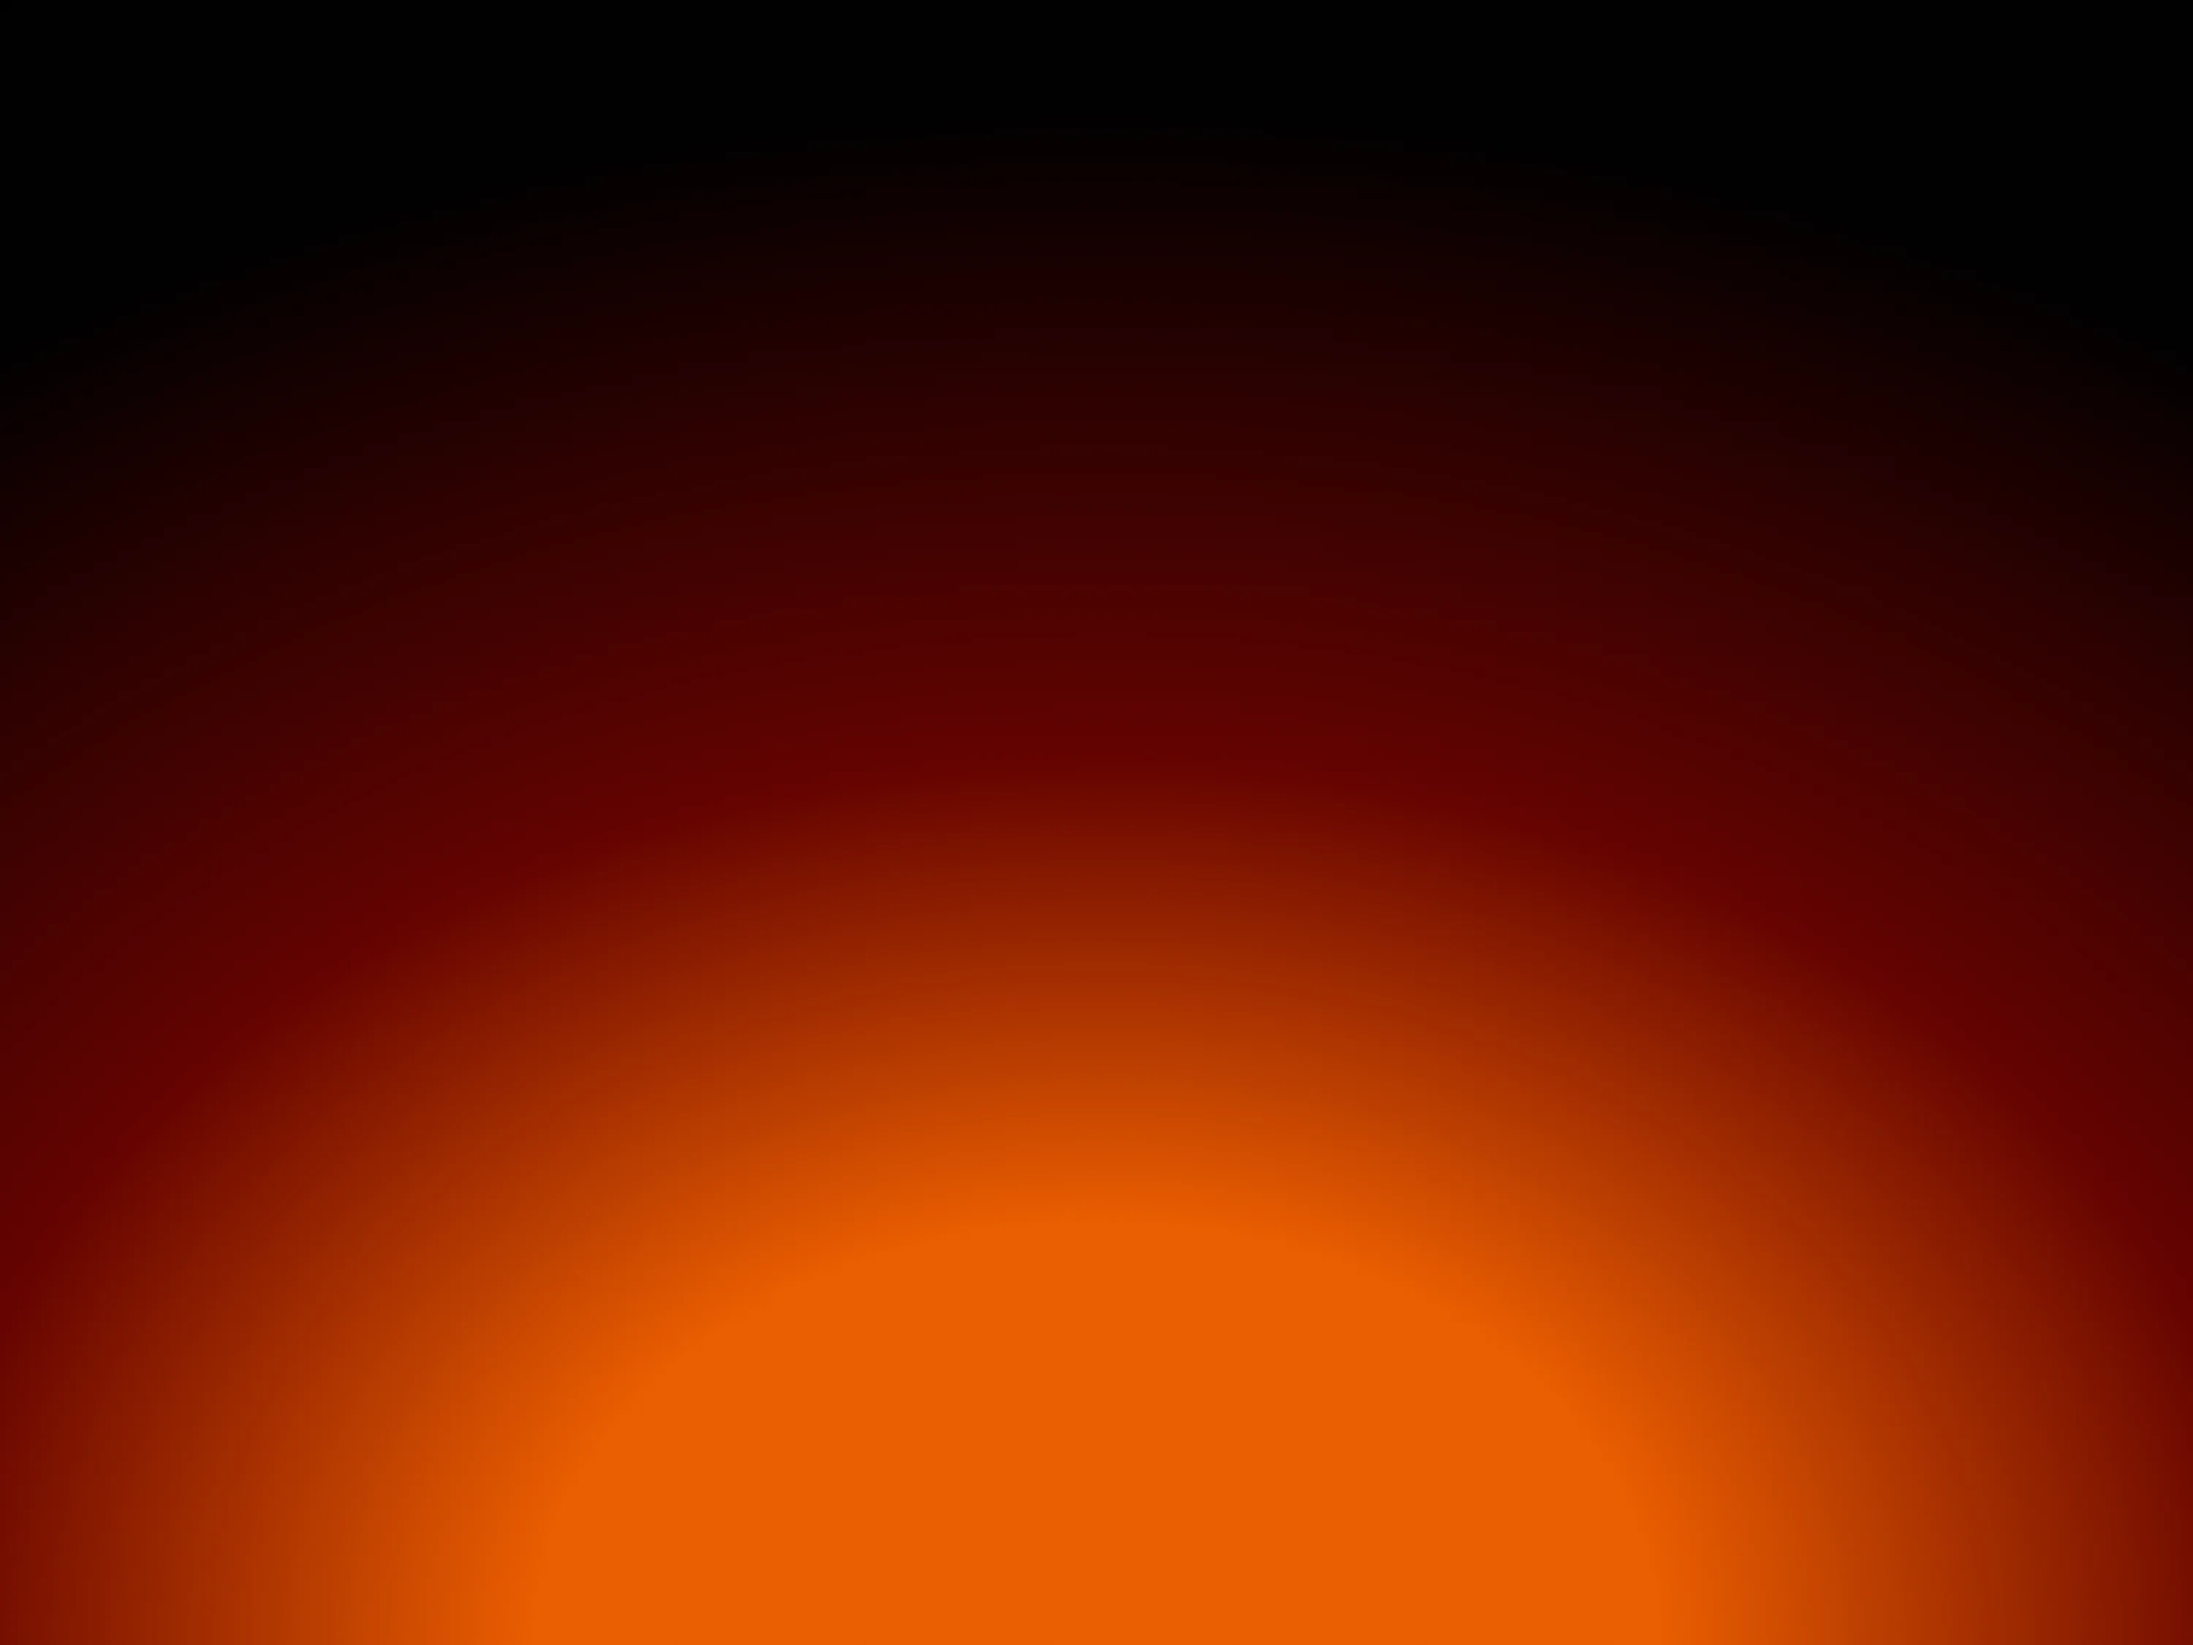
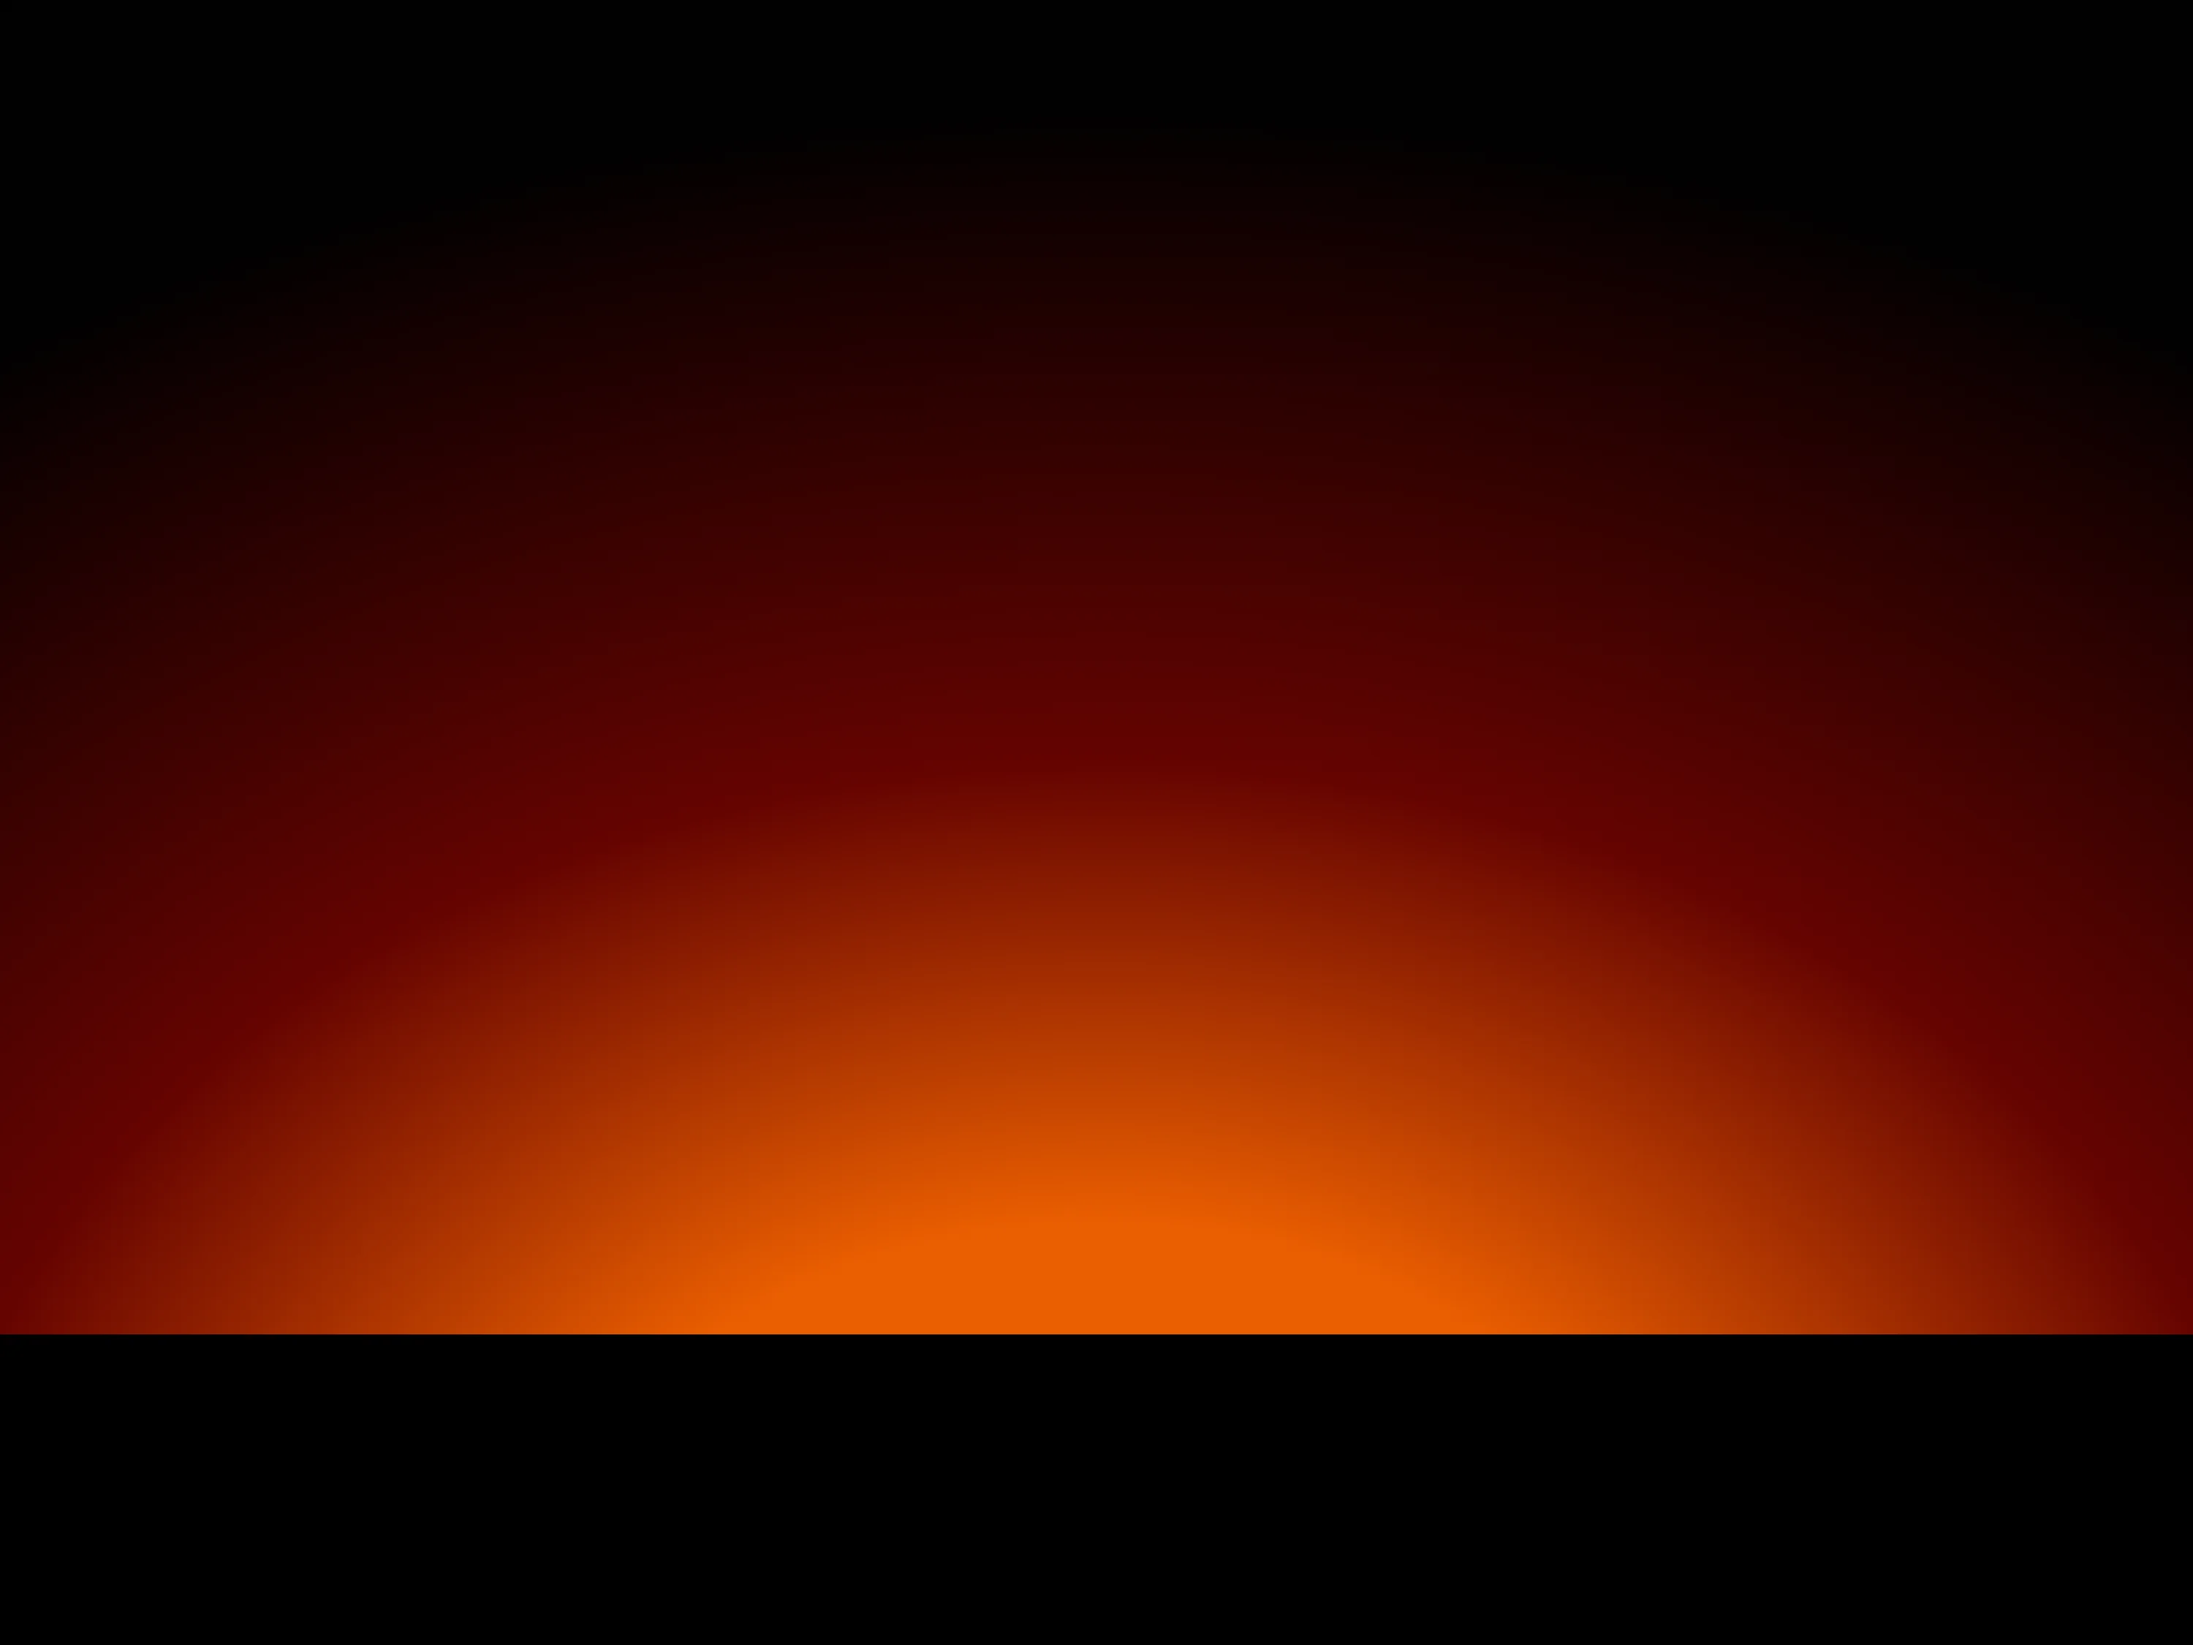
feat: add hero opening animation and line mask reveals to Our Story page

Changed region(s): [[0.0, 0.8089, 1.0, 1.0]]

diff --git a/src/components/OurStorySections.tsx b/src/components/OurStorySections.tsx
@@ -4,9 +4,10 @@ import { useEffect, useRef } from "react";
 import Image from "next/image";
 import gsap from "gsap";
 import { ScrollTrigger } from "gsap/ScrollTrigger";
+import { SplitText } from "gsap/SplitText";
 import styles from "./OurStorySections.module.css";
 
-gsap.registerPlugin(ScrollTrigger);
+gsap.registerPlugin(ScrollTrigger, SplitText);
 
 interface LayerConfig {
   level: 1 | 2 | 3;
@@ -47,7 +48,7 @@ const STORY_SECTIONS: StorySectionItem[] = [
   {
     id: "dubai",
     eyebrow: "A New Home",
-    title: "A New Chapter in Dubai",
+    title: "Arriving in Diverse, Dreaming Dubai",
     body: "Every tradition must travel to grow. AKA carried the soul of Japanese craft to Dubai, a city of ambition and endless diversity, and found its home at Mileo The Palm on West Beach, Palm Jumeirah. Step inside and taste Japan in Dubai.",
     layers: [
       { level: 3, src: "/our-story-images/dubai/dubai-3.webp" },
@@ -58,15 +59,51 @@ const STORY_SECTIONS: StorySectionItem[] = [
 
 // Speed multipliers: 1 is fastest, 2 is medium, 3 is slowest
 const SPEED_CONFIG = {
-  1: { from: 14, to: -14 },
-  2: { from: 7, to: -7 },
-  3: { from: 2.5, to: -2.5 },
+  1: { from: 0, to: -25 },
+  2: { from: 0, to: -18 },
+  3: { from: 0, to: -10 },
 };
 
 function StoryParallaxSection({ section }: { section: StorySectionItem }) {
   const sectionRef = useRef<HTMLElement>(null);
   const desktopBgRef = useRef<HTMLDivElement>(null);
   const mobileWrapperRef = useRef<HTMLDivElement>(null);
+  const textBoxRef = useRef<HTMLDivElement>(null);
+
+  // Line-by-line mask reveal: each line slides up from behind its own mask
+  useEffect(() => {
+    const box = textBoxRef.current;
+    if (!box) return;
+
+    const mm = gsap.matchMedia();
+
+    mm.add("(prefers-reduced-motion: no-preference)", () => {
+      const targets = box.querySelectorAll<HTMLElement>("[data-line-reveal]");
+
+      SplitText.create(targets, {
+        type: "lines",
+        mask: "lines",
+        linesClass: "story-line",
+        // Re-splits on resize / after fonts load so line breaks stay correct
+        autoSplit: true,
+        onSplit(self) {
+          return gsap.from(self.lines, {
+            yPercent: 110,
+            duration: 1.1,
+            stagger: 0.09,
+            ease: "power4.out",
+            scrollTrigger: {
+              trigger: box,
+              start: "top 80%",
+              once: true,
+            },
+          });
+        },
+      });
+    });
+
+    return () => mm.revert();
+  }, []);
 
   useEffect(() => {
     const sectionEl = sectionRef.current;
@@ -110,7 +147,7 @@ function StoryParallaxSection({ section }: { section: StorySectionItem }) {
                 trigger: triggerEl,
                 start: "top bottom",
                 end: "bottom top",
-                scrub: 1.2,
+                scrub: 1.1,
               },
             }
           );
@@ -135,9 +172,8 @@ function StoryParallaxSection({ section }: { section: StorySectionItem }) {
           <div
             key={`desktop-layer-${layer.level}`}
             data-parallax-layer={layer.level}
-            className={`${styles.layerWrapper} ${
-              styles[`layerLevel_${layer.level}`]
-            }`}
+            className={`${styles.layerWrapper} ${styles[`layerLevel_${layer.level}`]
+              }`}
           >
             <Image
               src={layer.src}
@@ -154,10 +190,16 @@ function StoryParallaxSection({ section }: { section: StorySectionItem }) {
 
       {/* Centered container with max-width 1250px and max-width 350px text box */}
       <div className={styles.container}>
-        <div className={styles.textBox}>
-          <p className={styles.eyebrow}>{section.eyebrow}</p>
-          <h2 className={styles.title}>{section.title}</h2>
-          <p className={styles.body}>{section.body}</p>
+        <div ref={textBoxRef} className={styles.textBox}>
+          <p className={styles.eyebrow} data-line-reveal>
+            {section.eyebrow}
+          </p>
+          <h2 className={styles.title} data-line-reveal>
+            {section.title}
+          </h2>
+          <p className={styles.body} data-line-reveal>
+            {section.body}
+          </p>
         </div>
       </div>
 
@@ -171,9 +213,8 @@ function StoryParallaxSection({ section }: { section: StorySectionItem }) {
           <div
             key={`mobile-layer-${layer.level}`}
             data-parallax-layer={layer.level}
-            className={`${styles.layerWrapper} ${
-              styles[`layerLevel_${layer.level}`]
-            }`}
+            className={`${styles.layerWrapper} ${styles[`layerLevel_${layer.level}`]
+              }`}
           >
             <Image
               src={layer.src}

diff --git a/src/components/OurStoryHero.tsx b/src/components/OurStoryHero.tsx
@@ -1,10 +1,70 @@
+"use client";
+
+import { useEffect, useRef } from "react";
 import Image from "next/image";
+import gsap from "gsap";
+import { SplitText } from "gsap/SplitText";
 import styles from "./OurStoryHero.module.css";
 
+gsap.registerPlugin(SplitText);
+
 export default function OurStoryHero() {
+  const imageRef = useRef<HTMLDivElement>(null);
+  const contentRef = useRef<HTMLDivElement>(null);
+
+  useEffect(() => {
+    const imageEl = imageRef.current;
+    const contentEl = contentRef.current;
+    if (!imageEl || !contentEl) return;
+
+    const mm = gsap.matchMedia();
+
+    mm.add("(prefers-reduced-motion: no-preference)", () => {
+      const tl = gsap.timeline({ delay: 0.15 });
+
+      // 1. Image fades in from darkness with a gentle settle
+      tl.fromTo(
+        imageEl,
+        { autoAlpha: 0, scale: 1.08 },
+        { autoAlpha: 1, scale: 1, duration: 2.4, ease: "power2.out" },
+        0
+      );
+
+      // 2. Text lines rise from their masks
+      SplitText.create(contentEl.querySelectorAll("[data-hero-reveal]"), {
+        type: "lines",
+        mask: "lines",
+        linesClass: "hero-line",
+        autoSplit: true,
+        onSplit(self) {
+          gsap.set(contentEl, { autoAlpha: 1 });
+          const lineTl = gsap.fromTo(
+            self.lines,
+            { yPercent: 110 },
+            {
+              yPercent: 0,
+              duration: 1.2,
+              stagger: 0.12,
+              ease: "power4.out",
+            }
+          );
+          tl.add(lineTl, 0.9);
+          return lineTl;
+        },
+      });
+    });
+
+    // Reduced motion: just show everything
+    mm.add("(prefers-reduced-motion: reduce)", () => {
+      gsap.set([imageEl, contentEl], { autoAlpha: 1 });
+    });
+
+    return () => mm.revert();
+  }, []);
+
   return (
     <section className={styles.hero} aria-label="Our Story">
-      <div className={styles.imageWrapper}>
+      <div ref={imageRef} className={styles.imageWrapper}>
         <Image
           src="/our-story-images.webp"
           alt="The Crimson Story of AKA Sushi"
@@ -18,12 +78,15 @@ export default function OurStoryHero() {
       </div>
 
       <div className={styles.container}>
-        <div className={styles.content}>
-          <p className={styles.eyebrow}>THE Story of Aka</p>
-          <h1 className={styles.title}>The Crimson Story of AKA Sushi</h1>
+        <div ref={contentRef} className={styles.content}>
+          <p className={styles.eyebrow} data-hero-reveal>
+            THE Story of Aka
+          </p>
+          <h1 className={styles.title} data-hero-reveal>
+            The Crimson Story of AKA Sushi
+          </h1>
         </div>
       </div>
     </section>
   );
 }
-

diff --git a/src/components/OurStorySections.module.css b/src/components/OurStorySections.module.css
@@ -7,7 +7,7 @@
   align-items: center;
   overflow: hidden;
   background-color: #000000;
-  margin-block: 10vw;
+  margin-top: 20rem;
 }
 
 /* ── Desktop Background ── */
@@ -23,10 +23,10 @@
 /* ── Parallax Layer Stack ── */
 .layerWrapper {
   position: absolute;
-  top: -15%;
+  top: 0%;
   left: 0;
   width: 100%;
-  height: 130%;
+  height: 100%;
   pointer-events: none;
   will-change: transform;
 }
@@ -54,13 +54,11 @@
   position: absolute;
   inset: 0;
   z-index: 4;
-  background: linear-gradient(
-    90deg,
-    rgba(0, 0, 0, 0.45) 0%,
-    rgba(0, 0, 0, 0.15) 45%,
-    rgba(0, 0, 0, 0) 75%,
-    rgba(0, 0, 0, 0) 100%
-  );
+  background: linear-gradient(90deg,
+      rgba(0, 0, 0, 0.45) 0%,
+      rgba(0, 0, 0, 0.15) 45%,
+      rgba(0, 0, 0, 0) 75%,
+      rgba(0, 0, 0, 0) 100%);
   pointer-events: none;
 }
 
@@ -169,4 +167,20 @@
     height: 186.5vw;
     overflow: hidden;
   }
+}
+
+
+/* ── Line reveal masks (created by GSAP SplitText) ──
+   A little extra room so descenders (g, y, p) aren't clipped by the mask */
+.textBox :global(.story-line-mask) {
+  padding-bottom: 0.1em;
+  margin-bottom: -0.1em;
+}
+
+
+/* ── Line reveal masks (created by GSAP SplitText) ──
+   A little extra room so descenders (g, y, p) aren't clipped by the mask */
+.textBox :global(.story-line-mask) {
+  padding-bottom: 0.1em;
+  margin-bottom: -0.1em;
 }

diff --git a/src/components/OurStoryHero.module.css b/src/components/OurStoryHero.module.css
@@ -97,3 +97,35 @@
     line-height: 1.15;
   }
 }
+
+
+/* ── Page opening animation: start hidden (in darkness) until GSAP runs ── */
+@media (prefers-reduced-motion: no-preference) {
+  .imageWrapper,
+  .content {
+    opacity: 0;
+    visibility: hidden;
+  }
+}
+
+/* Extra room inside each line mask so descenders aren't clipped */
+.content :global(.hero-line-mask) {
+  padding-bottom: 0.1em;
+  margin-bottom: -0.1em;
+}
+
+
+/* ── Page opening animation: start hidden (in darkness) until GSAP runs ── */
+@media (prefers-reduced-motion: no-preference) {
+  .imageWrapper,
+  .content {
+    opacity: 0;
+    visibility: hidden;
+  }
+}
+
+/* Extra room inside each line mask so descenders aren't clipped */
+.content :global(.hero-line-mask) {
+  padding-bottom: 0.1em;
+  margin-bottom: -0.1em;
+}
